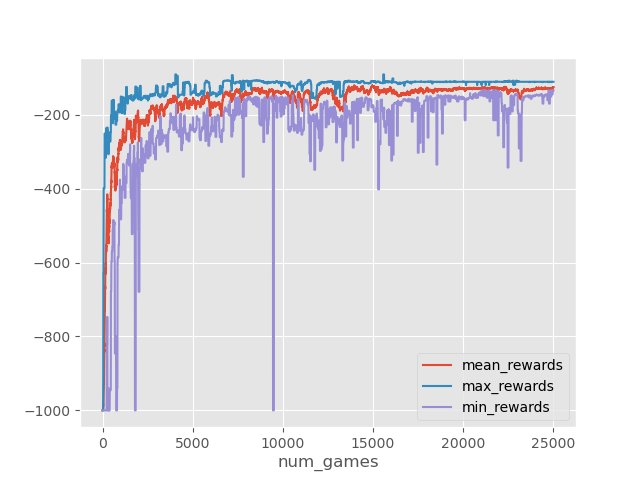
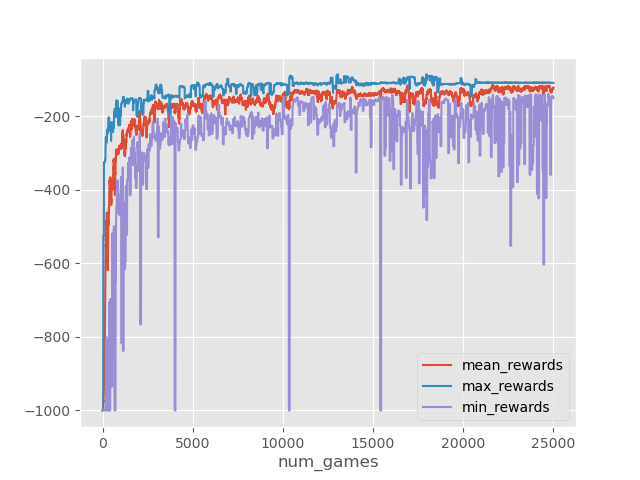
update plot

Changed region(s): [[0.0625, 0.1562, 0.875, 0.875], [0.0625, 0.5312, 0.125, 0.5625]]

diff --git a/Combine.py b/Combine.py
@@ -204,19 +204,19 @@ if __name__ == "__main__":
 # ? plotting max_rewards of both methods to compare
     maxQ = q_data.plot.line(x='num_games', y='max_rewards')
     maxS = s_data.plot.line(x='num_games', y='max_rewards', ax=maxQ)
-    maxS.plt.legend(["Q-Learning", "SARSA"])
+    maxS.legend(["Q-Learning", "SARSA"])
     maxS.figure.savefig('Max_compare.png')
 
 # ? Plotting mean_rewards of both methods to compare
     meanQ = q_data.plot.line(x='num_games', y='mean_rewards')
     meanS = s_data.plot.line(x='num_games',y='mean_rewards', ax=meanQ)
-    meanS.plt.legend(["Q-Learning", "SARSA"])
+    meanS.legend(["Q-Learning", "SARSA"])
     meanS.figure.savefig('Mean_compare.png')
 
 # ? Plotting min_rewards of both methods to compare
     minQ = q_data.plot.line(x='num_games', y='min_rewards')
     minS = s_data.plot.line(x='num_games', y='min_rewards', ax=minQ)
-    minS.plt.legend(["Q-Learning", "SARSA"])
+    minS.legend(["Q-Learning", "SARSA"])
     minS.figure.savefig('Min_compare.png')
 
 
